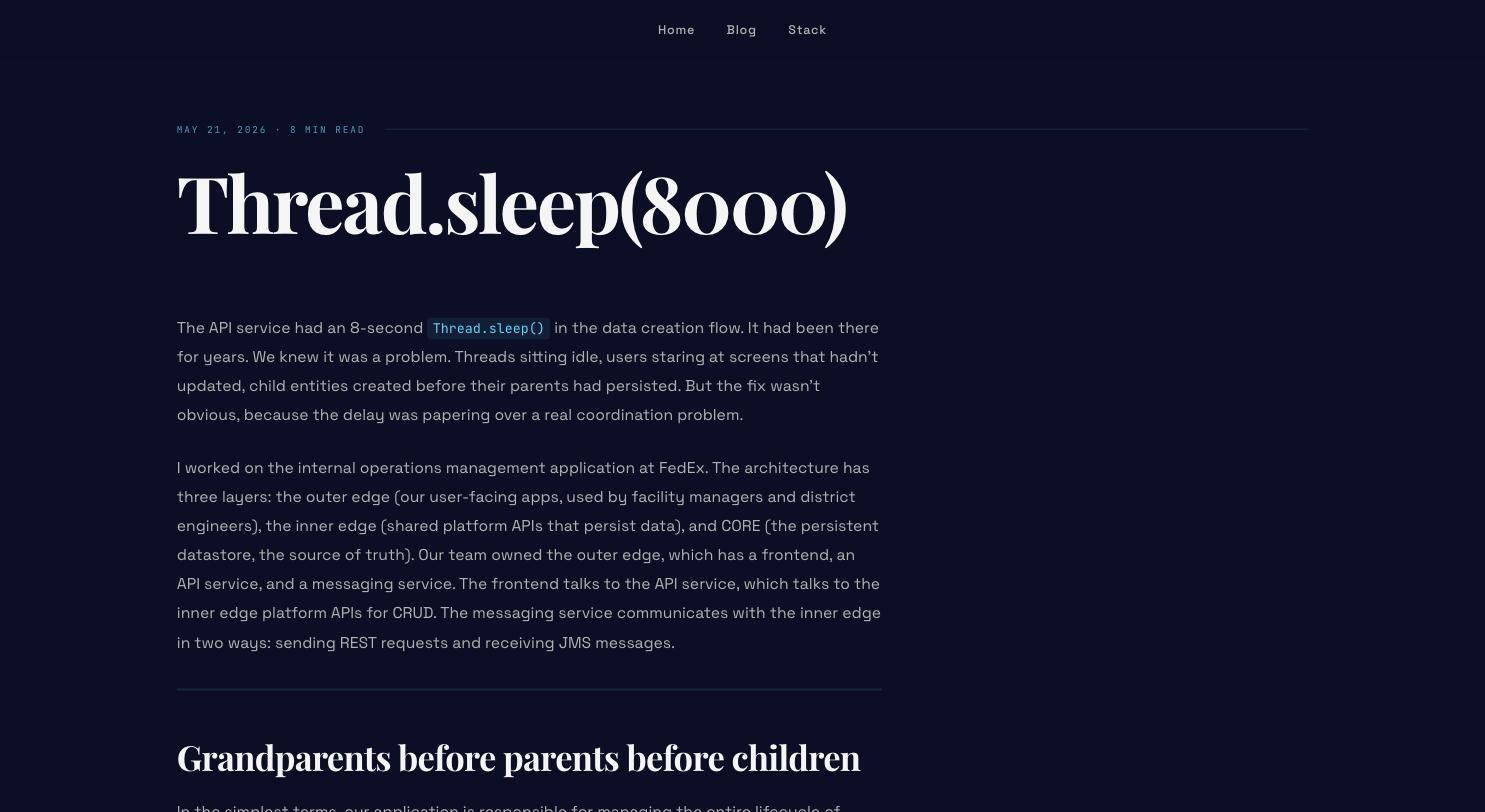
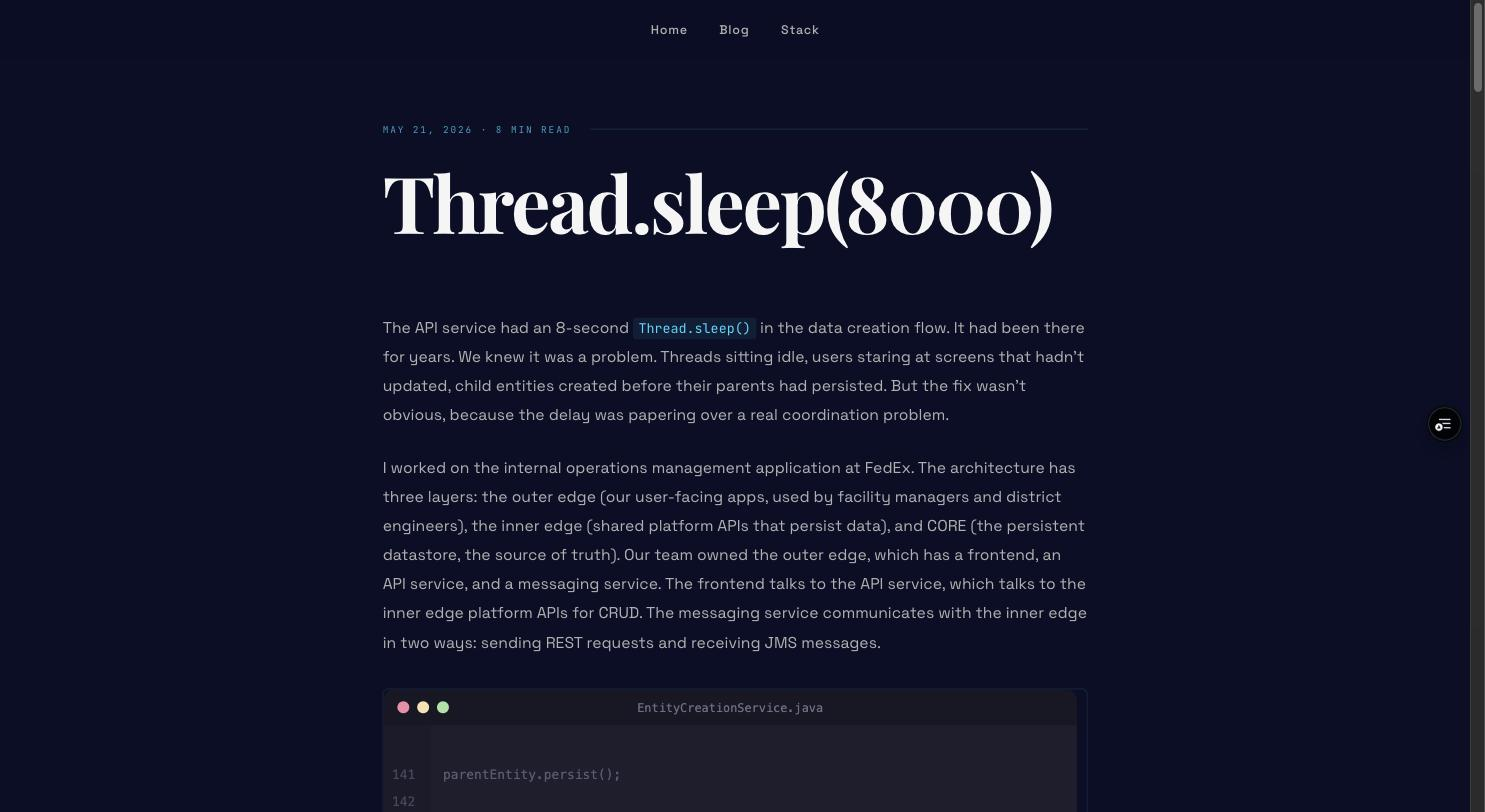
recapture blog post screenshot after column-centering fix
Replaces the flush-left screenshot with one from the redeployed preview
(dpl_3k7Ew7mUR1uABHKrKhkoywnJo6ES) showing the centered column. REPORT.md's
finding 8 now documents the correction: what was wrong, what changed, and
measurements from both the local build and the live preview.

diff --git a/docs/ux-fixes-report/REPORT.md b/docs/ux-fixes-report/REPORT.md
@@ -97,7 +97,11 @@ Solid (opaque) uses land at 6.1-6.6:1 since `#818cf8` has much higher luminance 
 
 Code blocks (`pre`) are the one deliberate exception: they get their own width, `max(100%, min(850px, calc(100vw - 8rem)))`, with matching negative `calc()` margins, so a code block can run up to ~850px (wider than the 70ch prose) while staying centered on the same axis as the column. The `100vw - 8rem` term caps the width safely at any viewport so it can never force horizontal scroll; `max(100%, …)` guarantees it's never narrower than the column either.
 
-**Verified:** at 1440px, `getBoundingClientRect()` on the column measured `left: 353.6px`, `right: 1071.4px` against `document.documentElement.clientWidth: 1425px` — left and right gaps both `353.6px` (perfectly centered). A synthetic `pre` breakout tested at the same viewport measured `850px` wide with `287.5px` gaps on each side (also centered, `document.documentElement.scrollWidth` unchanged at `1425`, no horizontal scroll introduced). At 390px, the same breakout formula collapsed the code block to exactly the column's own width (`327px`, no overflow — `scrollWidth === clientWidth === 375`). `npx tsc --noEmit`, `npm run lint`, and `npm run build` all clean after the change.
+**Verified (local production build, `next start`):** at 1440px, `getBoundingClientRect()` on the column measured `left: 353.6px`, `right: 1071.4px` against `document.documentElement.clientWidth: 1425px` — left and right gaps both `353.6px` (perfectly centered). This post has no fenced code block in its content (the code-editor-styled visual in the screenshots is an SVG diagram, not a `<pre>`), so the `pre` breakout was verified by injecting a synthetic element with the exact production style and measuring it: at 1440px it rendered `850px` wide with `287.5px` gaps on each side (centered, `document.documentElement.scrollWidth` unchanged at `1425`, no horizontal scroll introduced); at 390px the same formula collapsed it to exactly the column's own width (`327px`, no overflow — `scrollWidth === clientWidth === 375`). `npx tsc --noEmit`, `npm run lint`, and `npm run build` all clean after the change.
+
+**Verified (live preview, deployment `dpl_3k7Ew7mUR1uABHKrKhkoywnJo6ES`, commit `728222f`, READY):** re-checked via the account owner's authenticated Chrome session at 1440px on `/blog/thread-sleep-8000` — column measured `left: 389.6px`, `right: 1107.4px` against `clientWidth: 1497px`, gaps `389.59px` / `389.60px` (centered, matches the local build within rounding), `scrollWidth === clientWidth`, no overflow. **Caveat, same as the first pass:** this sandboxed authenticated browser's window is fixed size and does not respond to resize requests (confirmed again: a `390x844` resize request left the captured screenshot at the same `1485x812` dimensions), so the 390px mobile check for the *live preview* specifically could not be captured — the mobile numbers above are from the local production build of the identical deployed commit.
+
+**Screenshot:** `preview-blog-post-desktop.jpg` was recaptured from this live preview session, same URL, same 1440px window, same viewport-only (not full-page) crop as the original file it replaces — both are `1485x812`.
 
 ---
 
@@ -269,7 +273,7 @@ Both items previously deferred here (the indigo/cyan-alpha swap, and the footer 
 | `prod-esmon-desktop.png` | Production ESMON case study, 1440px |
 | `preview-home-desktop.jpg` | Live ux-fixes preview, home, desktop |
 | `preview-footer-desktop.jpg` | Live ux-fixes preview, footer, desktop (Opinions gone, brighter text, tags cyan) |
-| `preview-blog-post-desktop.jpg` | Live ux-fixes preview, blog post, desktop |
+| `preview-blog-post-desktop.jpg` | Live ux-fixes preview, blog post, desktop — **recaptured** after the Finding 8 correction; column now centered (was flush-left with a dead right half in the version this replaces) |
 | `preview-esmon-casestudy-desktop.jpg` | Live ux-fixes preview, ESMON, desktop (title bar confirms metadata title) |
 | `preview-home-mobile-hero-localbuild.png` | Local build (same commit), home, 390px — no radar labels overlapping |
 | `preview-footer-mobile-localbuild.png` | Local build (same commit), footer, 390px — no overflow, brighter text, Opinions gone |
